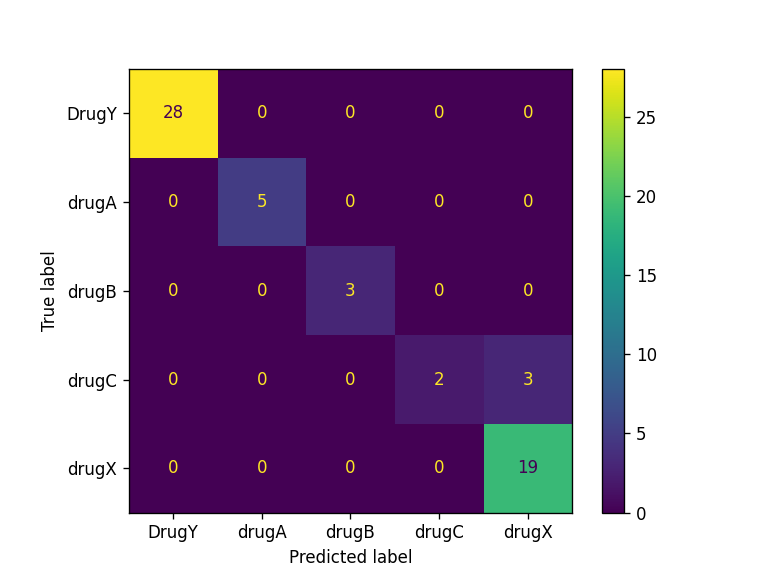
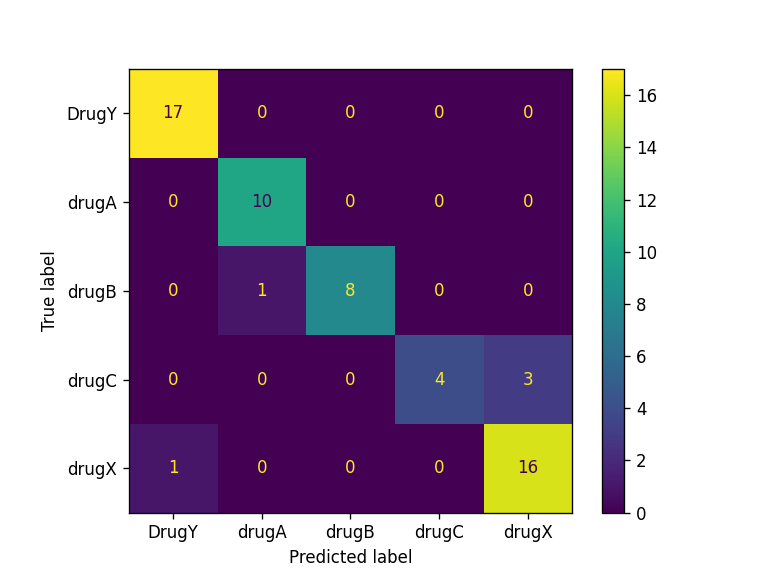
Update: evaluation results

diff --git a/report.md b/report.md
@@ -1,5 +1,5 @@
 ## Model Metrics
 
-Accuracy = 0.95, F1 Score = 0.9.
+Accuracy = 0.92, F1 Score = 0.9.
 ## Confusion Matrix Plot
 ![Confusion Matrix](./Results/model_results.png)
